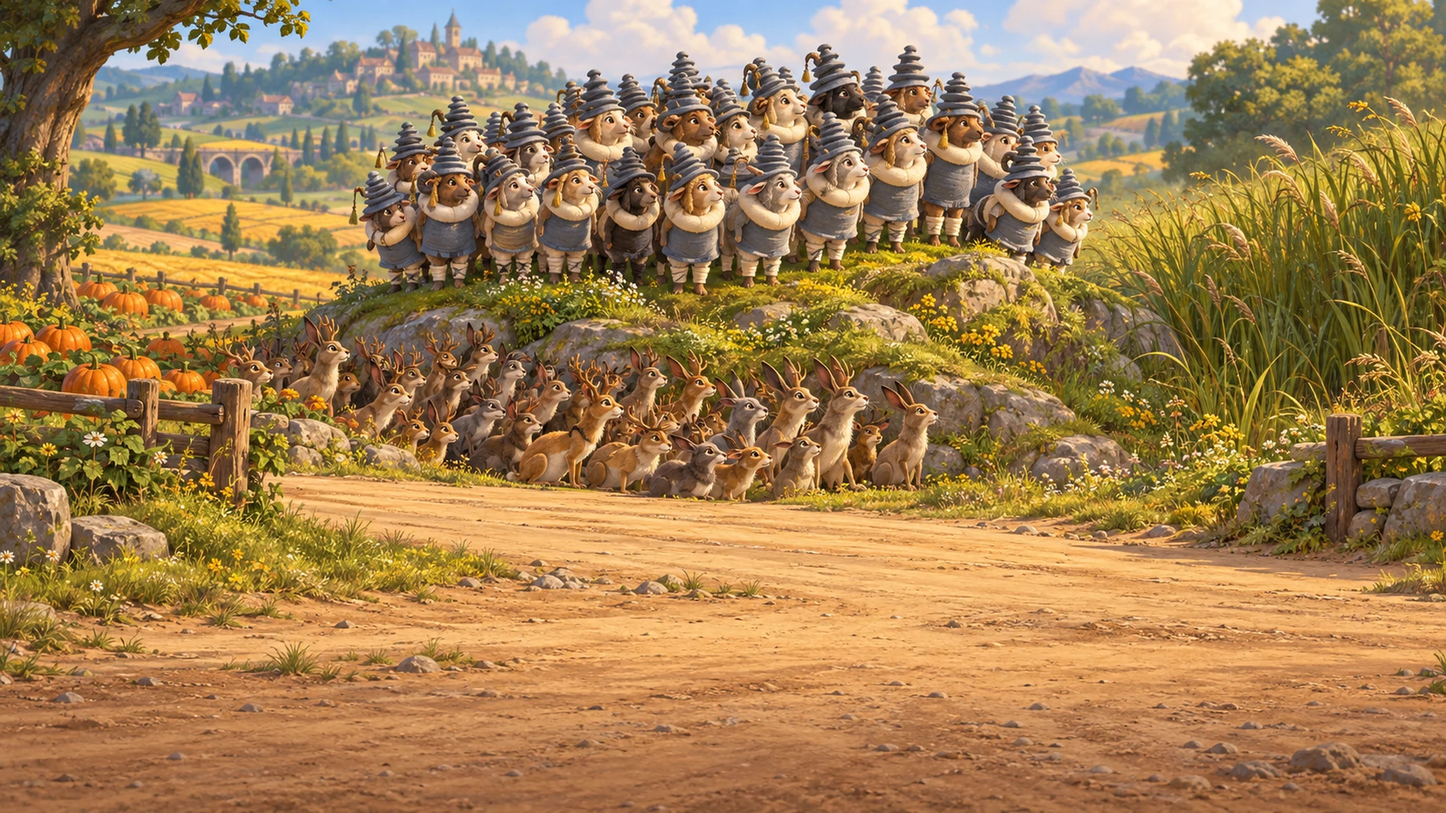
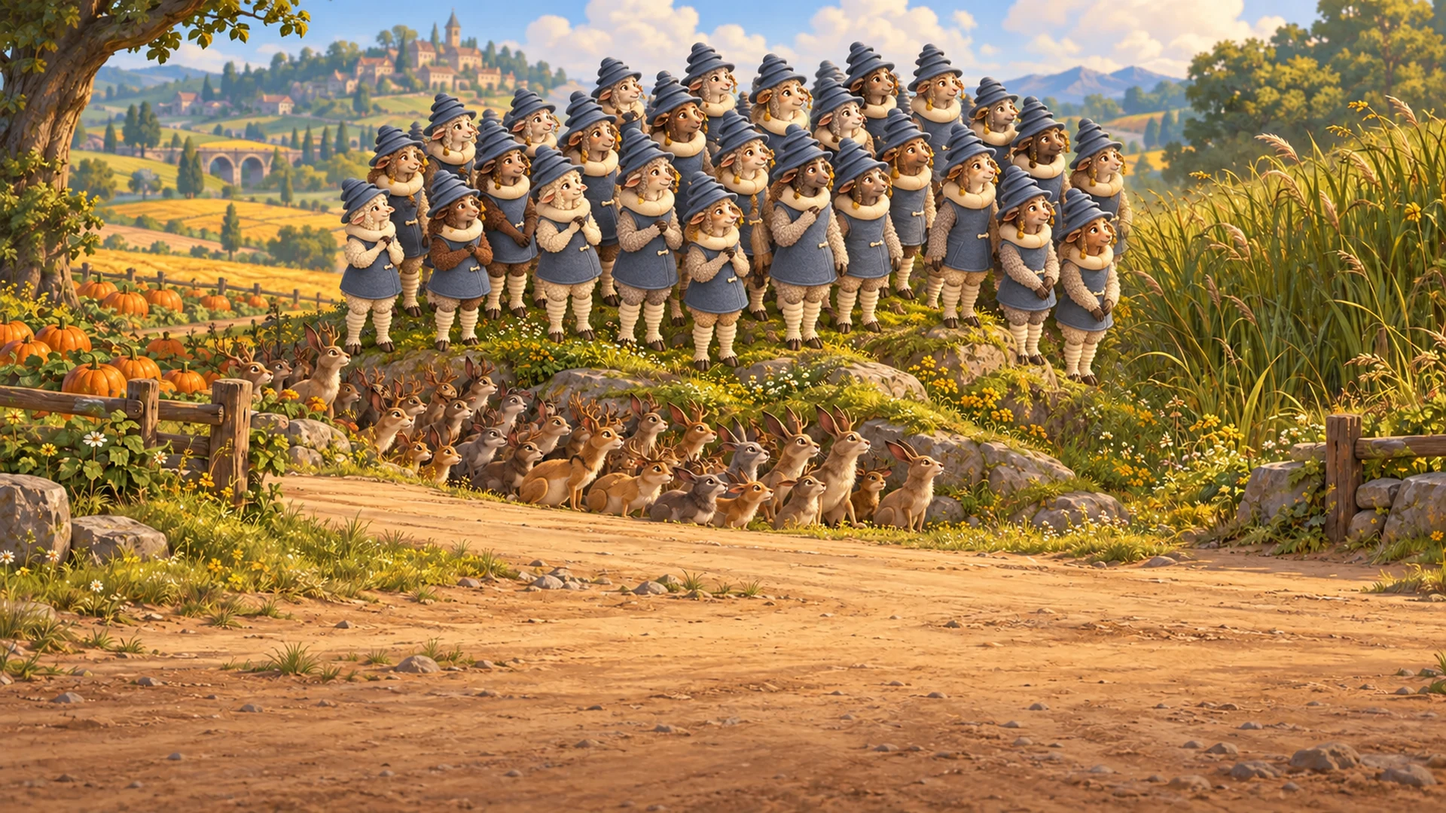
Match ridge flock to existing sheeple character artwork

diff --git a/art/source/sheeple-ridge-revision.md b/art/source/sheeple-ridge-revision.md
@@ -1,0 +1,7 @@
+# Sheeple ridge appearance correction
+
+Built-in image_gen edit using the previous ridge backdrop as the edit target and `assets/entities/sheeple/assembled.png` from the main local checkout as the authoritative character reference. Corrects the flock's proportions, faces, curly wool, hoof hands and feet, and overlapping blue felt wraps to match that reference. Export replaces `assets/scenes/gemfall/sheeple-ridge.webp` at 1920×1080, WebP quality 88; existing five scene references remain valid.
+
+## Final revision prompt
+
+Edit image 1 (the landscape ridge backdrop). Image 2 (the transparent trio) is the authoritative CHARACTER DESIGN reference. Replace every sheeple in the ridge flock with sheep-folk that look exactly like the characters in image 2, NOT the existing squat characters. Match the reference's taller upright body proportions, long woolly arms, slender visible woolly legs, large cloven hoof hands and feet, tight curly fleece, gentle sheep faces with short muzzles and small soft pink noses, large expressive brown eyes, long outward sheep ears, curled golden ram horns and gold tassels on some. Match the reference's smooth slate-blue overlapping diagonal wrap tunic with one small cream toggle, thick cream wool ring collar, cream cone leg cozies, and soft floppy broad-brim slate-blue felt hats. Because the scene narration specifies seven brims, extend the reference hat design to seven SOFT wide floppy felt brims, not narrow rigid rings or pointed wizard towers. Make the flock about thirty, cream, grey, brown and black wool, standing close together watching the right-hand long grass. Each is an individual in the same species and outfit as the reference trio, drawn in the same warm hand-painted storybook style, NOT chibi, NOT 3D figurines, NOT little round sheep bodies. Preserve the original landscape, ridge, pumpkin fields, jackalopes, sunlit warm farm country and open lower third dusty road for sprites; adjust flock placement only as needed to accommodate taller matching proportions, keep full bodies visible. No wolves, no added humans, no lettering or UI. Full bleed 16:9 landscape.

diff --git a/docs/campaigns/gemfall-illustrations.md b/docs/campaigns/gemfall-illustrations.md
@@ -54,7 +54,7 @@ Single wide 16:9 painterly detailed fantasy storybook game backdrop, Gemfall Kid
 
 Generated with the built-in image generation tool and exported to `assets/scenes/gemfall/sheeple-ridge.webp` (1920×1080 WebP, quality 88). Wired into `scene_flock_ridge`, `scene_flock_bigfoot`, `check_flock_clever`, `scene_flock_copies`, and `scene_flock_scatters`; registered in `assets/manifest.json`.
 
-Original scene brief from PR 131 was followed, with slate-blue felt wraps and sheep muzzles matching the current NPC artwork. The exact final generation prompt is recorded in `art/source/sheeple-ridge-generation.md`.
+Original scene brief from PR 131 was followed, with slate-blue felt wraps and sheep muzzles matching the current NPC artwork. The initial prompt is recorded in `art/source/sheeple-ridge-generation.md`; the final appearance correction used the existing sheeple trio as a visual reference and is documented in `art/source/sheeple-ridge-revision.md`.
 
 ## Validation
 
